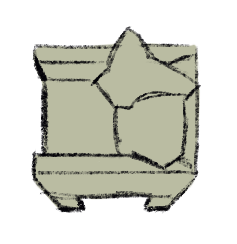
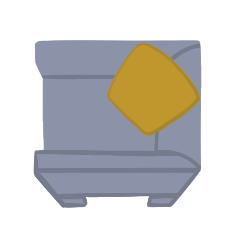
add new visuals for level1

diff --git a/BeepoVacAttack/src/BeepoVacAttack/BeepoVacServer/PlayingState.java b/BeepoVacAttack/src/BeepoVacAttack/BeepoVacServer/PlayingState.java
@@ -51,15 +51,15 @@ public class PlayingState extends BasicGameState {
                 MainGame.players.get(1).setMove(pack.getMessage());
             }
 
+            // update the dust bunnies
+            MainGame.bunnies.forEach((bunny) -> bunny.update(delta));
+
+            // get the pos of each player and save it in a snapshot
+            Packet retPack = new Packet("snapshot");
+            retPack.setSnapshot(MainGame.players, MainGame.bunnies);
+            MainGame.observer.send(retPack);
+
         }
-
-        // update the dust bunnies
-        MainGame.bunnies.forEach((bunny) -> bunny.update(delta));
-
-        // get the pos of each player and save it in a snapshot
-        Packet retPack = new Packet("snapshot");
-        retPack.setSnapshot(MainGame.players, MainGame.bunnies);
-        MainGame.observer.send(retPack);
 
     }
 

diff --git a/BeepoVacAttack/src/BeepoVacAttack/BeepoVacClient/PlayingState.java b/BeepoVacAttack/src/BeepoVacAttack/BeepoVacClient/PlayingState.java
@@ -137,12 +137,11 @@ public class PlayingState extends BasicGameState {
         myBeepoVac.setBeepoVacDir(sendMove);
 
         // send concatenated string only if values are assigned
-        if (sendMove.compareTo("") != 0) {
-        if (sendMove.length() > 0) System.out.println(sendMove);
-            pack = new Packet(sendMove);
-            pack.setPlayer(bg.whichPlayer);
-            bg.caller.push(pack);
-        }
+//        if (sendMove.compareTo("") != 0) {
+        pack = new Packet(sendMove);
+        pack.setPlayer(bg.whichPlayer);
+        bg.caller.push(pack);
+//        }
 
         // take in the game state and apply it.
         while (!MainGame.queue.isEmpty()) {
